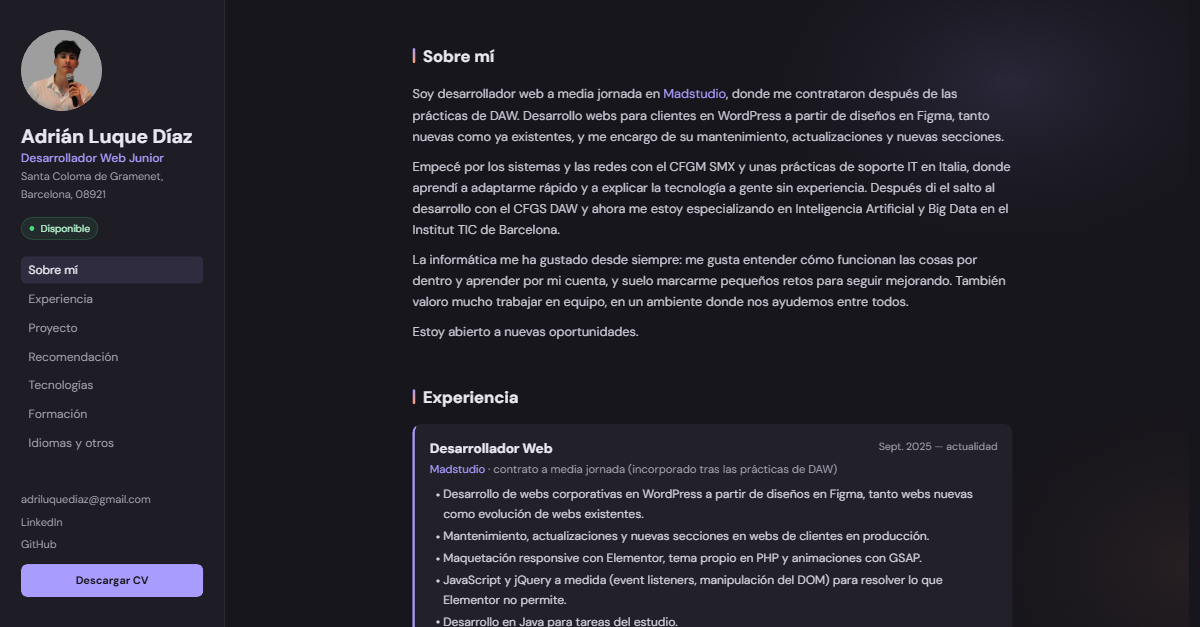
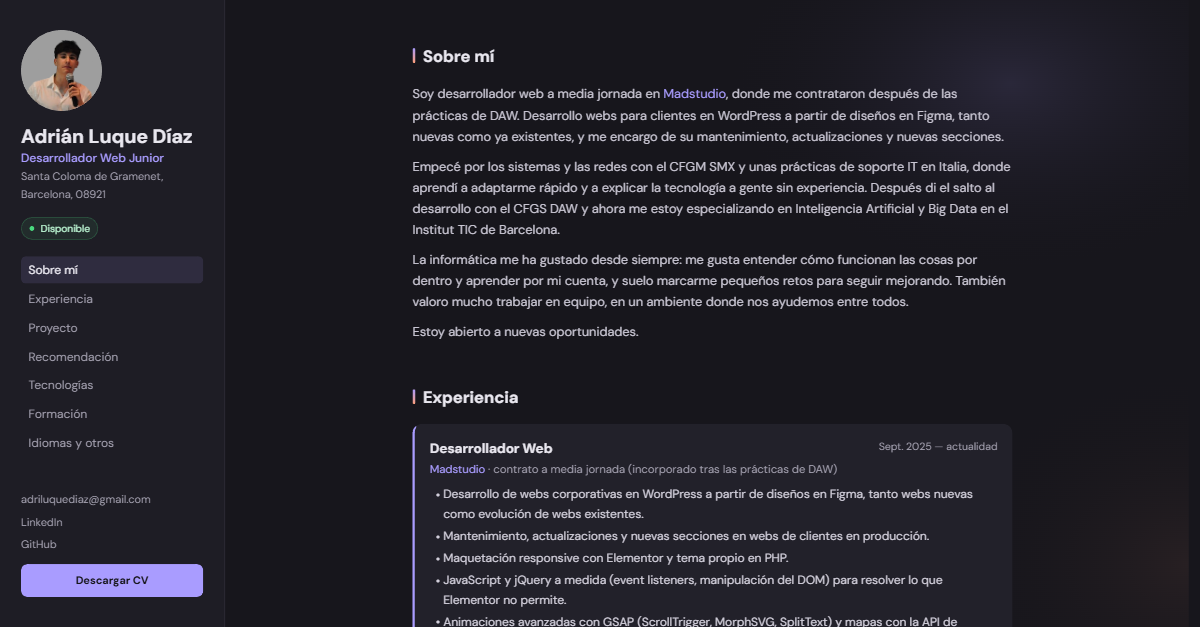
Add files via upload

Changed region(s): [[0.37, 0.9697, 0.8017, 1.0], [0.555, 0.8788, 0.7708, 0.9091]]

diff --git a/index.html b/index.html
@@ -156,9 +156,9 @@
         <ul>
           <li>Desarrollo de webs corporativas en WordPress a partir de diseños en Figma, tanto webs nuevas como evolución de webs existentes.</li>
           <li>Mantenimiento, actualizaciones y nuevas secciones en webs de clientes en producción.</li>
-          <li>Maquetación responsive con Elementor, tema propio en PHP y animaciones con GSAP.</li>
+          <li>Maquetación responsive con Elementor y tema propio en PHP.</li>
           <li>JavaScript y jQuery a medida (event listeners, manipulación del DOM) para resolver lo que Elementor no permite.</li>
-          <li>Desarrollo en Java para tareas del estudio.</li>
+          <li>Animaciones avanzadas con GSAP (ScrollTrigger, MorphSVG, SplitText) y mapas con la API de Google Maps.</li>
           <li>Webs multidioma con WPML, migraciones y gestión del hosting en SiteGround; SEO.</li>
           <li>Control de versiones con Git y GitHub.</li>
         </ul>
@@ -192,11 +192,11 @@
       <div class="job">
         <div class="top"><h3>BitHub Arcade</h3><span class="date">Proyecto final del CFGS DAW</span></div>
         <p>Web de minijuegos de programación con registro de usuarios, saldo, estadísticas y rol de administrador. Frontend en Vue con Vite y API REST en Spring Boot con base de datos MySQL.</p>
-        <div class="tags"><span>Vue.js</span><span>Vite</span><span>Java</span><span>Spring Boot</span><span>Spring Security</span><span>MySQL</span></div>
+        <div class="tags"><span>Vue.js</span><span>Vite</span><span>Java</span><span>Spring Boot</span><span>MySQL</span></div>
         <div class="more">
           <a href="https://bithub-arcade.vercel.app" target="_blank" rel="noopener">Ver la web →</a>
           <a href="https://github.com/AdrianLuqueDiaz/Proyecto-DAW" target="_blank" rel="noopener">Código en GitHub →</a>
-          <span>El servidor gratuito puede tardar unos segundos en arrancar.</span>
+          <span>Pruébalo con «Entrar como invitado». El servidor gratuito puede tardar unos segundos en arrancar.</span>
         </div>
       </div>
     </section>
@@ -219,7 +219,7 @@
         <div class="card"><h3>Frontend</h3><div class="tags"><span>HTML5</span><span>CSS3</span><span>JavaScript</span><span>jQuery</span><span>GSAP</span><span>Vue.js</span><span>Bootstrap</span></div></div>
         <div class="card"><h3>Backend</h3><div class="tags"><span>PHP</span><span>Java</span><span>Spring Boot</span><span>API REST</span></div></div>
         <div class="card"><h3>WordPress</h3><div class="tags"><span>WordPress</span><span>Elementor</span><span>WPML</span><span>Migraciones</span><span>SEO</span></div></div>
-        <div class="card"><h3>Bases de datos y datos</h3><div class="tags"><span>SQL</span><span>MySQL</span></div><p class="soon-label">En formación</p><div class="tags soon"><span>Python</span><span>Power BI</span><span>Google Cloud</span></div></div>
+        <div class="card"><h3>Datos</h3><div class="tags"><span>SQL</span><span>MySQL</span></div><p class="soon-label">En formación</p><div class="tags soon"><span>Python</span><span>Power BI</span><span>Google Cloud</span></div></div>
         <div class="card"><h3>Sistemas</h3><div class="tags"><span>Windows</span><span>Linux</span><span>Redes</span><span>Hardware</span></div></div>
         <div class="card"><h3>Herramientas</h3><div class="tags"><span>Figma</span><span>Git</span><span>GitHub</span><span>SiteGround</span></div></div>
       </div>
